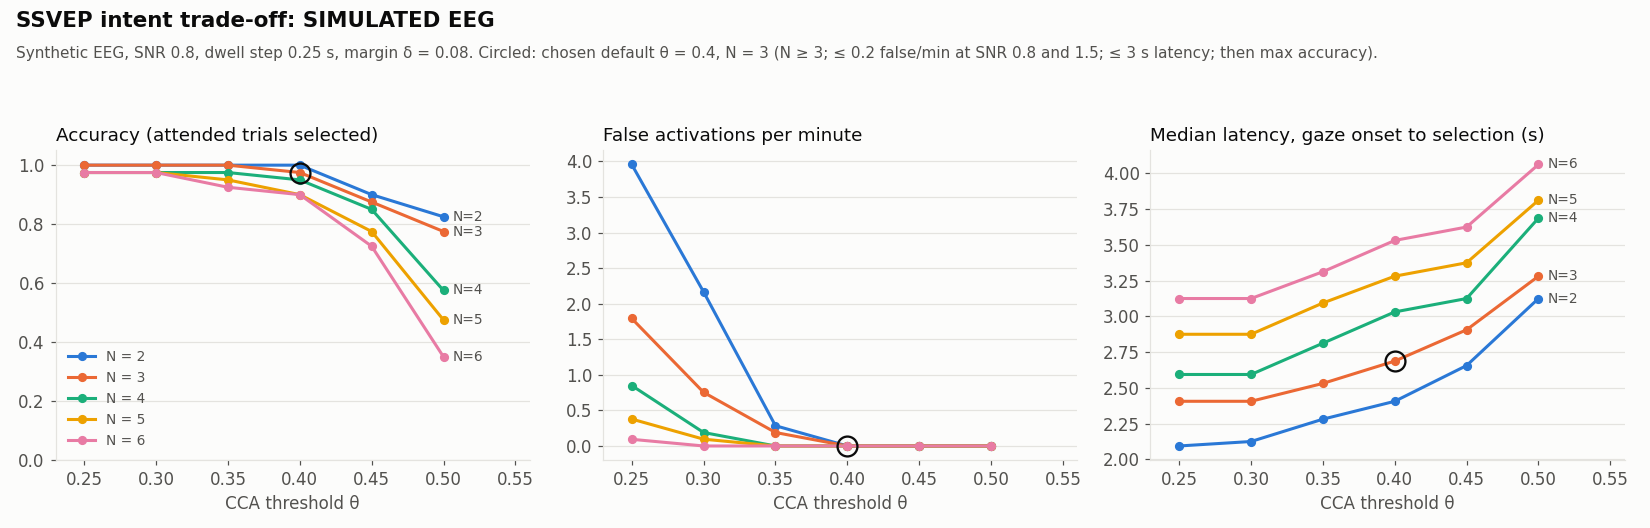
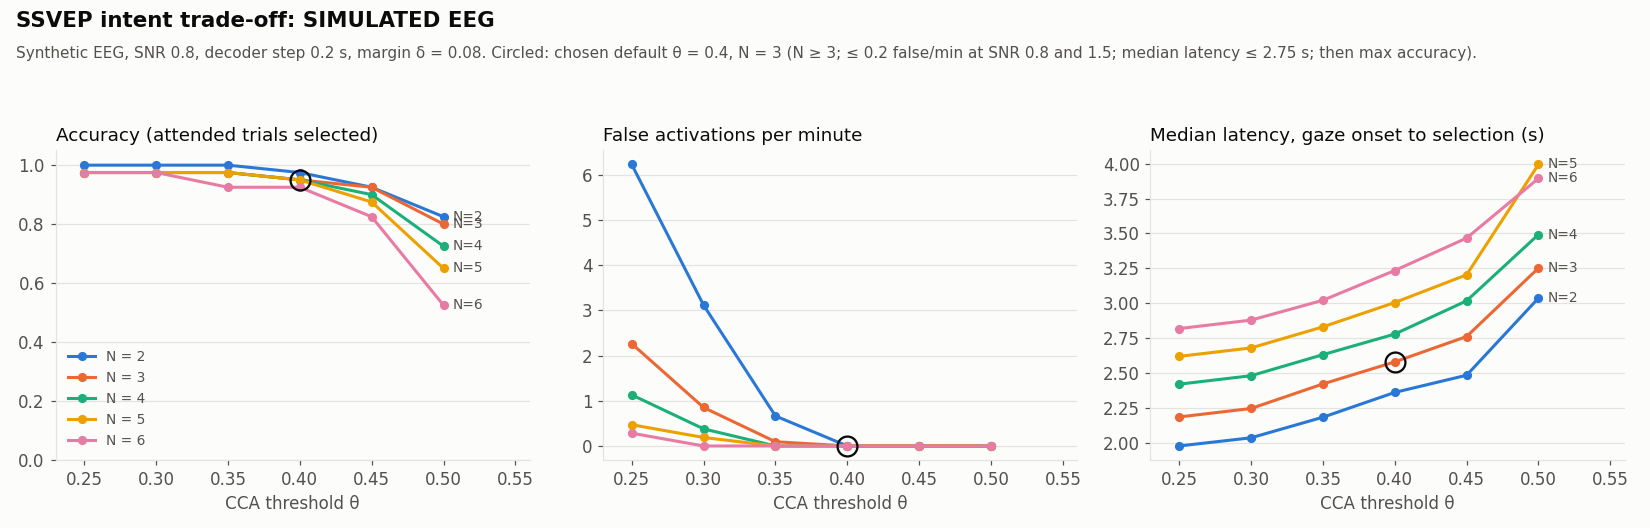
Decoder step 0.2 s, verified MCU link, one-clock state latency, poll rate

diff --git a/webxr/js/app.js b/webxr/js/app.js
@@ -37,7 +37,11 @@ async function boot() {
   }
   S.ros = new RosLink(defaultUrl(location, S.cfg.rosbridge_port), {
     onConnection: (ok) => { S.connected = ok; renderConn(); },
-    onStatus: (m) => { S.status = m; renderStatus(); },
+    onStatus: (m) => {
+      if (!S.status || S.status.display !== m.display) S.ros.pub("/eyesteer/status_ack", "std_msgs/String", { data: m.display });
+      S.status = m;
+      renderStatus();
+    },
     onMarkers: (m) => { S.markers = m.markers.map(msgToMarker); renderMode(); },
     onBci: (m) => { S.bci = m; renderBci(); },
     onHealth: (m) => { S.health = m; renderHealth(); },
@@ -64,7 +68,7 @@ async function boot() {
   setupXrButton();
   setMode("run");
   setInterval(publishTiming, 500);
-  setInterval(publishGaze, 100);
+  setInterval(publishGaze, 50);
   setInterval(() => S.ros.pub("/eyesteer/ping", "std_msgs/String", { data: String(Date.now() / 1000) }), 2000);
   requestAnimationFrame(previewLoop);
 }
@@ -139,6 +143,7 @@ function onPreviewClick(ev) {
   if (S.mode === "run") {
     const m = markerAt(u, v);
     S.aimed = m ? m.id : 0;
+    publishGaze();
   } else if (S.mode === "place") {
     const [x, y] = c2w(u, v);
     placeMarker({ x, y, z: 1.4 }, "map");
@@ -456,13 +461,16 @@ function clockOffset() {
   const best = [...S.offsets].sort((a, b) => a.rtt - b.rtt).slice(0, 5);
   return best.reduce((a, b) => a + b.off, 0) / best.length;
 }
+function clockRtt() {
+  return S.offsets.length ? Math.min(...S.offsets.map((o) => o.rtt)) : null;
+}
 
 // ------------------------------------------------------------------ test hooks (Playwright headless headset client)
 window.eyesteer = {
   state: () => ({ blocked: S.blocked, connected: S.connected, consent: S.consent, mode: S.mode, markers: S.markers, status: S.status,
                   bci: S.bci, health: S.health, cal: S.cal, aimed: S.aimed, frame: S.frame, selections: S.selections,
                   tableHash: S.table && S.table.hash, refresh: S.timing.snappedHz(), latency: S.latency, aimLog: S.aimLog,
-                  pose: S.pose, people: S.people || [], clockOffset: clockOffset() }),
+                  pose: S.pose, people: S.people || [], clockOffset: clockOffset(), clockRtt: clockRtt() }),
   pub: (topic, type, msg) => S.ros.pub(topic, type, msg),
   placeHeadsetFrame: (list) => {     // markers given in map coordinates, sent as the headset would: in its own frame
     const hs = list.map((m) => { const h = mapToHeadset([m.x, m.y, m.z], S.cal); return { ...m, x: h[0], y: h[1], z: h[2],
@@ -472,7 +480,7 @@ window.eyesteer = {
   disconnect: () => { S.ros.ros.close(); clearTimeout(S.ros.timer); S.ros.connect = () => {}; },
   consent: () => $("consent-ok").click(),
   setMode,
-  aim: (id) => { S.aimed = id; S.aimLog.push({ id, t: Date.now() }); },
+  aim: (id) => { S.aimed = id; S.aimLog.push({ id, t: Date.now() }); publishGaze(); },
   placeMarkers: (list) => sendMarkers(list.map((m) => ({ ...m, frequency: frequencyFor(m.slot, S.table) }))),
   placeAt: (x, y, z, label, cancel) => placeMarker({ x, y, z }, "map", label, cancel),
   calibrateSim: (truth) => computeCalibration(...simulatedDecalTouch(truth)),

diff --git a/ros2_ws/src/eyesteer_behavior/eyesteer_behavior/mcu_bridge_node.py b/ros2_ws/src/eyesteer_behavior/eyesteer_behavior/mcu_bridge_node.py
@@ -40,6 +40,7 @@ class McuBridge(Node):
         self.lock = threading.Lock()
         self.ser = None
         self.last_reply = 0.0
+        self.reconnecting = False
         self.alive = False
         self.pub_alive = self.create_publisher(Bool, "/mcu/alive", 10)
         self.pub_status = self.create_publisher(String, "/mcu/status", 10)
@@ -57,19 +58,29 @@ class McuBridge(Node):
         os.symlink(os.ttyname(self.slave), self.ros_link)
         self.open_serial()
         threading.Thread(target=self.proxy_loop, daemon=True).start()
-        self.create_timer(0.05, self.poll)
+        self.create_timer(0.1, self.poll)   # 10 Hz: leaves the serial line to diffdrive_arduino's 50 Hz e/m
         self.get_logger().info(f"mcu_bridge: {self.device} @ {self.baud} <-> {self.ros_link} (diffdrive_arduino)")
 
     def open_serial(self):
+        """Open the device AND verify that the eyesteer firmware answers ('v' -> 'V eyesteer ...') before the
+        link counts as up: a stale device link, the wrong USB device or an unflashed board must never let
+        ros2_control start against a port that does not answer."""
         while rclpy.ok():
             try:
+                if self.ser is not None:
+                    self.ser.close()
                 self.ser = serial.Serial(self.device, self.baud, timeout=0.1, write_timeout=0.1)
                 time.sleep(self.reset_wait)
                 self.ser.reset_input_buffer()
-                return
+                for _ in range(10):
+                    if self.transact(b"v\r", 0.2).startswith(b"V eyesteer"):
+                        return
+                    time.sleep(0.2)
+                self.get_logger().warn(f"{self.device} opened but the eyesteer firmware does not answer; retrying",
+                                       throttle_duration_sec=5.0)
             except (serial.SerialException, OSError) as e:
                 self.get_logger().warn(f"cannot open {self.device}: {e}; retrying", throttle_duration_sec=5.0)
-                time.sleep(1.0)
+            time.sleep(1.0)
 
     def transact(self, line: bytes, timeout: float = 0.1) -> bytes:
         """One request/response with the MCU (serialized)."""
@@ -119,6 +130,13 @@ class McuBridge(Node):
                 self.pub_grip.publish(Bool(data=h[3] == "1"))
         self.alive = time.monotonic() - self.last_reply < 0.5
         self.pub_alive.publish(Bool(data=self.alive))
+        if time.monotonic() - self.last_reply > 3.0 and not self.reconnecting:
+            self.reconnecting = True            # silent MCU (unplugged / reset / emulator restarted): reopen + verify
+
+            def _reconnect():
+                self.open_serial()
+                self.reconnecting = False
+            threading.Thread(target=_reconnect, daemon=True).start()
 
 
 def main():

diff --git a/tools/bci_tradeoff.py b/tools/bci_tradeoff.py
@@ -32,7 +32,8 @@ def session(seed: int, snr: float, freqs: list, fs=256):
     followed by 90 s of looking around (glances + blinks). Returns decode results + ground truth."""
     rng = np.random.default_rng(seed)
     sim = SyntheticEEG(snr=snr, seed=seed)
-    dec = SSVEPDecoder(freqs, list(range(len(freqs))), fs=fs)
+    d = config.bci()["decoder"]
+    dec = SSVEPDecoder(freqs, list(range(len(freqs))), fs=fs, window_s=d["window_s"], step_s=d["step_s"])
     timeline = []
     t = 4.0
     order = list(range(len(freqs) - 1)) * 2
@@ -98,7 +99,8 @@ def main() -> int:
     grid = grids[snr]
     # choose: N >= 3 (>= 0.75 s of consistent evidence: anti-Midas-touch), at BOTH SNRs
     # false <= 0.2/min and latency <= 3.0 s; then max accuracy at the low SNR, fewer false, lower latency
-    ok = [(k, v) for k, v in grid.items() if k[1] >= 3 and v["latency_s"] <= 3.0
+    # latency <= 2.75 s: the median leaves >= 0.25 s for the tail under the 3.0 s budget (Section 24.7)
+    ok = [(k, v) for k, v in grid.items() if k[1] >= 3 and v["latency_s"] <= 2.75
           and max(grids[sn][k]["false_per_min"] for sn in grids) <= 0.2]
     best = max(ok, key=lambda kv: (round(kv[1]["accuracy"], 2), -kv[1]["false_per_min"], -kv[1]["latency_s"])) if ok else None
     out = ROOT / "outputs/metrics"
@@ -146,8 +148,8 @@ def plot(grid, best, snr, path):
         if ylim:
             ax.set_ylim(*ylim)
     axes[0].legend(frameon=False, loc="lower left", fontsize=9, labelcolor=INK2)
-    sub = (f"Synthetic EEG, SNR {snr}, dwell step 0.25 s, margin δ = 0.08. Circled: chosen default"
-           + (f" θ = {best[0][0]}, N = {best[0][1]}" if best else "") + " (N ≥ 3; ≤ 0.2 false/min at SNR 0.8 and 1.5; ≤ 3 s latency; then max accuracy).")
+    sub = (f"Synthetic EEG, SNR {snr}, decoder step {config.bci()['decoder']['step_s']} s, margin δ = 0.08. Circled: chosen default"
+           + (f" θ = {best[0][0]}, N = {best[0][1]}" if best else "") + " (N ≥ 3; ≤ 0.2 false/min at SNR 0.8 and 1.5; median latency ≤ 2.75 s; then max accuracy).")
     fig.suptitle("SSVEP intent trade-off: SIMULATED EEG", x=0.01, ha="left", color=INK, fontsize=14, weight="bold")
     fig.text(0.01, 0.89, sub, color=INK2, fontsize=10)
     fig.tight_layout(rect=(0, 0, 1, 0.87))

diff --git a/tests/integration/test_full_system.py b/tests/integration/test_full_system.py
@@ -95,8 +95,8 @@ def latencies(page):
             out["goal accepted -> robot moving (ms)"].append(e["dt_ms"])
         elif e["event"] == "wheel_response" and e.get("backend") == "mujoco_hil":
             out["cmd_vel -> wheel response, HIL (ms)"].append(e["dt_ms"])
-        elif e["event"] == "state":
-            out["robot state change -> visible in headset (ms)"].append(1000 * (e["rx"] - (e["wall"] - off)))
+        elif e["event"] == "state_visible":   # change -> shown in the page -> ack, on the robot's clock (upper bound)
+            out["robot state change -> visible in headset (ms)"].append(e["dt_ms"])
     for sel in st["selections"]:
         aims = [a for a in st["aimLog"] if a["id"] == sel["id"] and a["t"] <= sel["t"]]
         if aims:
@@ -198,6 +198,7 @@ def test_golden_path(robot, run):
             (golden_field if robot == "field_robot" else golden_walker)(page, tr)
             assert tr.collisions == 0, f"collision (min clearance {tr.min_clear:.3f} m)"
             lat = latencies(page)
+            rtt = page.evaluate("window.eyesteer.state().clockRtt")
             page.screenshot(path=str(ROOT / f"outputs/stills/golden_{robot}.png"))
         # 8. recordings exist (rosbag + XDF of the LSL stream)
         bag = ROOT / "outputs/logs/rosbag"
@@ -207,7 +208,7 @@ def test_golden_path(robot, run):
     for k, (lo, hi) in BUDGET.items():
         assert lat[k], f"no latency samples for {k}"
         med = statistics.median(lat[k])
-        assert lo <= med <= hi, f"latency budget violated: {k} median {med:.3g} not in [{lo}, {hi}]"
+        assert lo <= med <= hi, f"latency budget violated: {k} median {med:.3g} not in [{lo:.3g}, {hi}]"
     RESULTS[robot].append({k: statistics.median(v) for k, v in lat.items() if v})
     out = ROOT / "outputs/metrics" / f"golden_{robot}.json"
     out.write_text(json.dumps({"robot": robot, "backend": "mujoco_hil", "runs": RUNS, "passes": len(RESULTS[robot]),

diff --git a/ros2_ws/src/eyesteer_behavior/eyesteer_behavior/mode_manager_node.py b/ros2_ws/src/eyesteer_behavior/eyesteer_behavior/mode_manager_node.py
@@ -85,6 +85,9 @@ class ModeManagerNode(Node):
         self.create_subscription(Odometry, "/odom", self.on_odom, 10)
         # clock-offset ping from the headset (NTP-style), so latencies across machines are measurable
         self.create_subscription(String, "/eyesteer/ping", lambda m: self.event("pong", ping=m.data), 10)
+        # the headset acknowledges each state it displays: change -> ack on ONE clock (conservative upper bound)
+        self.state_t = {}
+        self.create_subscription(String, "/eyesteer/status_ack", self.on_ack, 10)
         self.pub_status = self.create_publisher(RobotStatus, "/robot/status", 10)
         self.pub_wander = self.create_publisher(Bool, "/wander/enable", LATCHED)
         self.create_subscription(Selection, "/bci/selection", self.on_selection, 10)
@@ -132,6 +135,11 @@ class ModeManagerNode(Node):
         if not self.lat["moving_reported"] and self.lat["accepted"] and moving:
             self.lat["moving_reported"] = True
             self.event("moving", dt_ms=1000 * (time.time() - self.lat["accepted"]))
+
+    def on_ack(self, m: String):
+        t0 = self.state_t.pop(m.data, None)
+        if t0 is not None:
+            self.event("state_visible", display=m.data, dt_ms=1000 * (time.time() - t0))
 
     # ------------------------------------------------------------------ localization consistency (24.5)
     def on_scan(self, s: LaserScan):
@@ -288,6 +296,7 @@ class ModeManagerNode(Node):
         self.pub_status.publish(m)
         if m.display != self.last_display:
             self.last_display = m.display
+            self.state_t[m.display] = time.time()
             self.event("state", display=m.display)
 
 

diff --git a/DECISIONS.md b/DECISIONS.md
@@ -104,3 +104,7 @@ One line per decision: **decision**: reason.
 - **Emulated motor time constant 50 ms.**
 - **Headset ↔ map calibration is a required gate only in `real` mode** (in sim/HIL the markers come from the sim layout; the golden path still calibrates and checks the residual).
 - **Latency instrumentation**: only selections that start a goal are timed for "selection → goal accepted"; "wheel response" = first wheel motion > 0.05 rad/s; headset clock offset by NTP-style ping.
+- **Decoder step 0.20 s (was 0.25)**: same onset accuracy (149/150, 0 wrong), median gaze→selection 2.50 → 2.38 s (p90 2.58 s), fewer false activations among glances (0.30 → 0.10/min); the 3.0 s latency budget's tail was being hit at 0.25 s. The trade-off sweep now reads the step from bci.yaml and requires a median latency ≤ 2.75 s (0.25 s margin for the tail): it still selects θ = 0.40, N = 3.
+- **`mcu_bridge` declares the MCU link up only after the firmware answers `v`** (and reopens + re-verifies after 3 s of silence): a stale device link once let ros2_control start against a dead port (localization never came up); the same check catches the wrong USB device or an unflashed board on the robot.
+- **"State change → visible in headset" is measured on one clock**: the headset acknowledges every displayed state (`/eyesteer/status_ack`); change → ack round trip is a conservative upper bound (an NTP-style cross-clock offset was off by up to 16 ms over the asymmetric WSL/Windows path, larger than the latency itself).
+- **`mcu_bridge` polls status at 10 Hz** (was 20 Hz), leaving the serial line to diffdrive_arduino's 50 Hz read/write.

diff --git a/INTERFACES.md b/INTERFACES.md
@@ -40,6 +40,7 @@ reconnects every 2 s and re-subscribes; latched topics (`/markers`, `/xr/calibra
 | `/amcl_pose`, `/sim/ground_truth` | `geometry_msgs/PoseWithCovarianceStamped`, `nav_msgs/Odometry` | → headset | ≤ 10 Hz |
 | `/sim/people` | `geometry_msgs/PoseArray` (x, y, z = radius; sim only) | → headset | 5 Hz |
 | `/eyesteer/latency` | `std_msgs/String` (JSON `{event, wall, dt_ms…}`) | → headset | events |
+| `/eyesteer/status_ack` | `std_msgs/String` (displayed state) | headset → | on every displayed state change (latency on one clock) |
 | `/eyesteer/ping` | `std_msgs/String` (page time) | headset → | 0.5 Hz; answered by a `pong` on `/eyesteer/latency` (clock offset) |
 | `/xr/timing` | `eyesteer_interfaces/XrTiming` | headset → | 2 Hz (also the headset heartbeat: 3 s silence = disconnected) |
 | `/xr/anchors` | `eyesteer_interfaces/MarkerArray` (frame `map` or `headset`) | headset → | on edit |
